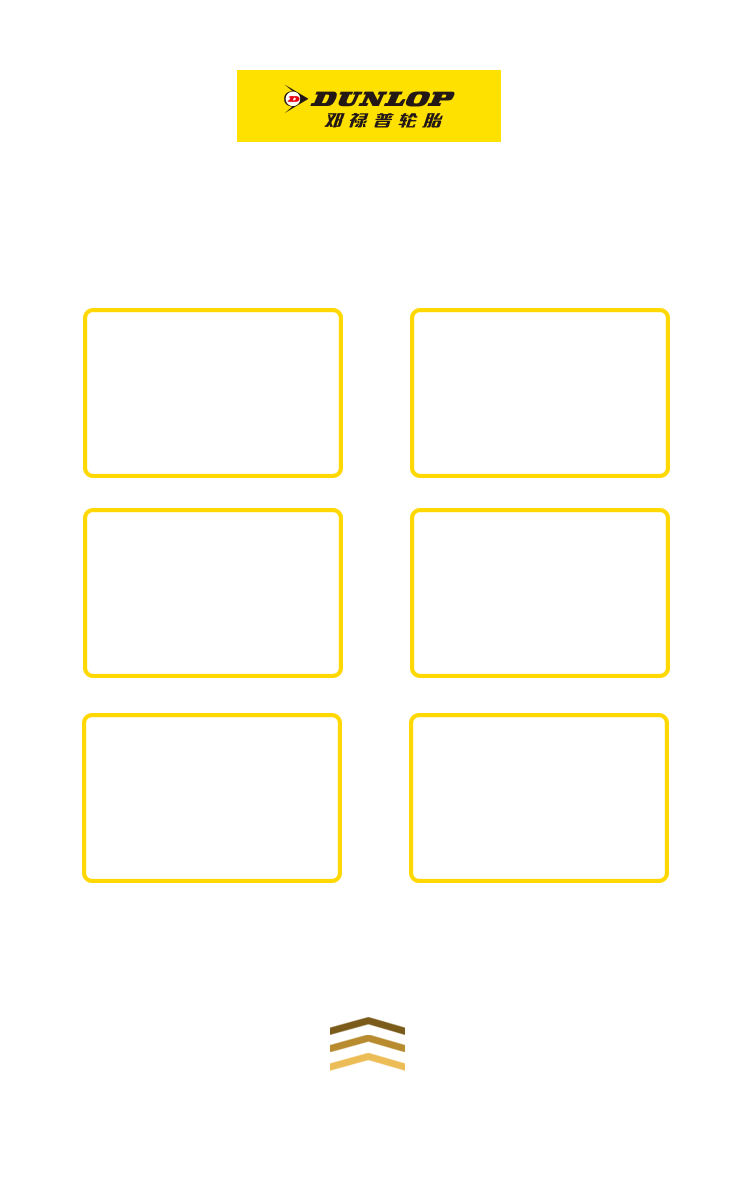
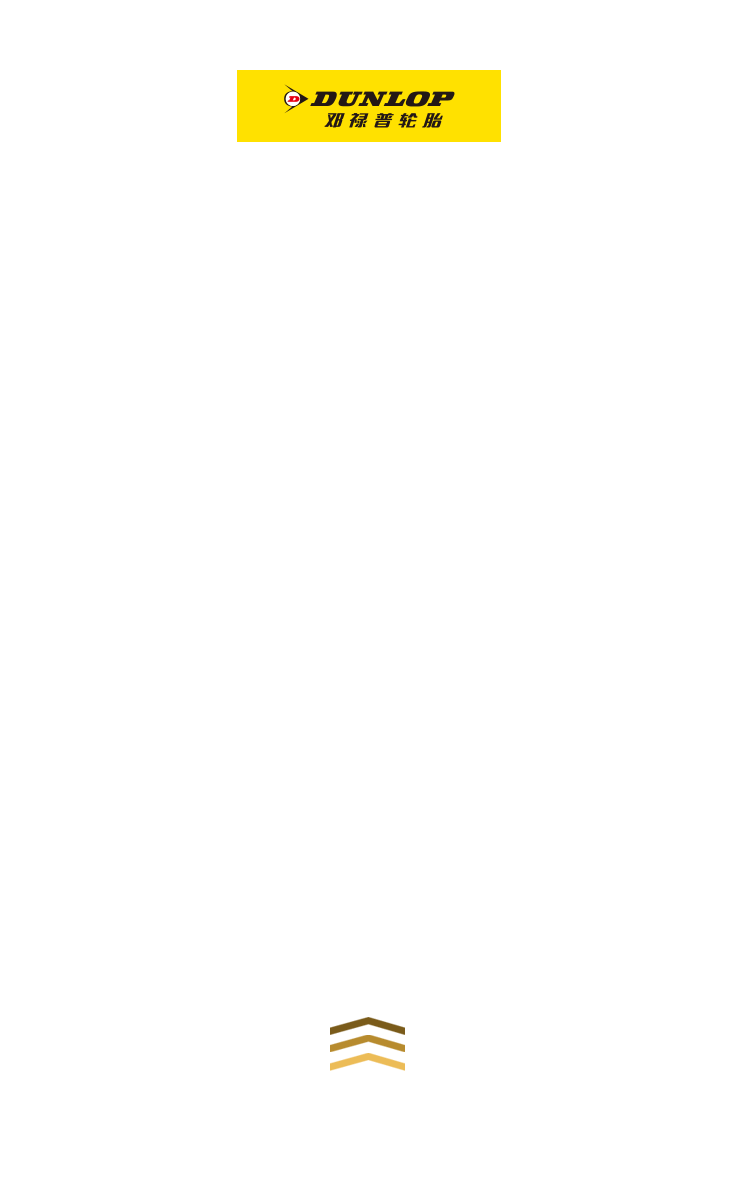
精彩一刻

diff --git a/src/views/Schedule4.vue b/src/views/Schedule4.vue
@@ -1,6 +1,12 @@
 <template>
   <div class="Schedule2">
-    <div class="schedule2-img"><img src="../assets/img/moment.png" /></div>
+    <div class="schedule2-img">
+      <div>
+        <div class="box" v-for="(item, index) in list" :key="index">
+          <img :src="'http://dlp.doorder.com' + item.img" alt="" />
+        </div>
+      </div>
+    </div>
     <Back />
   </div>
 </template>
@@ -10,14 +16,30 @@ import Back from "@/components/Back";
 export default {
   name: "Schedule4",
   data() {
-    return {};
+    return {
+      list: []
+    };
   },
   components: {
     Back
   },
   created() {},
-  methods: {},
-  beforeDestroy() {}
+  methods: {
+    getImg() {
+      this.$http
+        .post("/index/sign/listImg")
+        .then(res => {
+          this.list = res.data;
+          console.log(res);
+        })
+        .catch(err => {
+          console.log(err);
+        });
+    }
+  },
+  mounted() {
+    this.getImg();
+  }
 };
 </script>
 
@@ -29,10 +51,26 @@ export default {
 }
 .schedule2-img {
   width: 750px;
-  height: 100%;
+  height: 1355px;
+  background: url("../assets/img/moment.png") no-repeat center center;
+  background-size: 750px 1355px;
 }
-img {
-  width: 100%;
+.schedule2-img > div {
+  margin: 400px auto 0;
+}
+.box {
+  float: left;
+  width: 50%;
+  height: 200px;
+  display: flex;
+  flex-direction: row;
+  justify-content: center;
+  margin-bottom: 30px;
+}
+.box img {
+  width: 250px;
   height: 100%;
+  border-radius: 10px;
+  border: 2px solid ffd801;
 }
 </style>

diff --git a/src/request.js b/src/request.js
@@ -20,7 +20,7 @@ axios.interceptors.request.use(
 axios.interceptors.response.use(
   response => {
     // Do something with response data
-    if (response.data.code !== 1) {
+    if (response.data.code !== 1 && response.data.code !== 200) {
       Vue.$toast({
         message: response.data.msg,
         position: "top",
